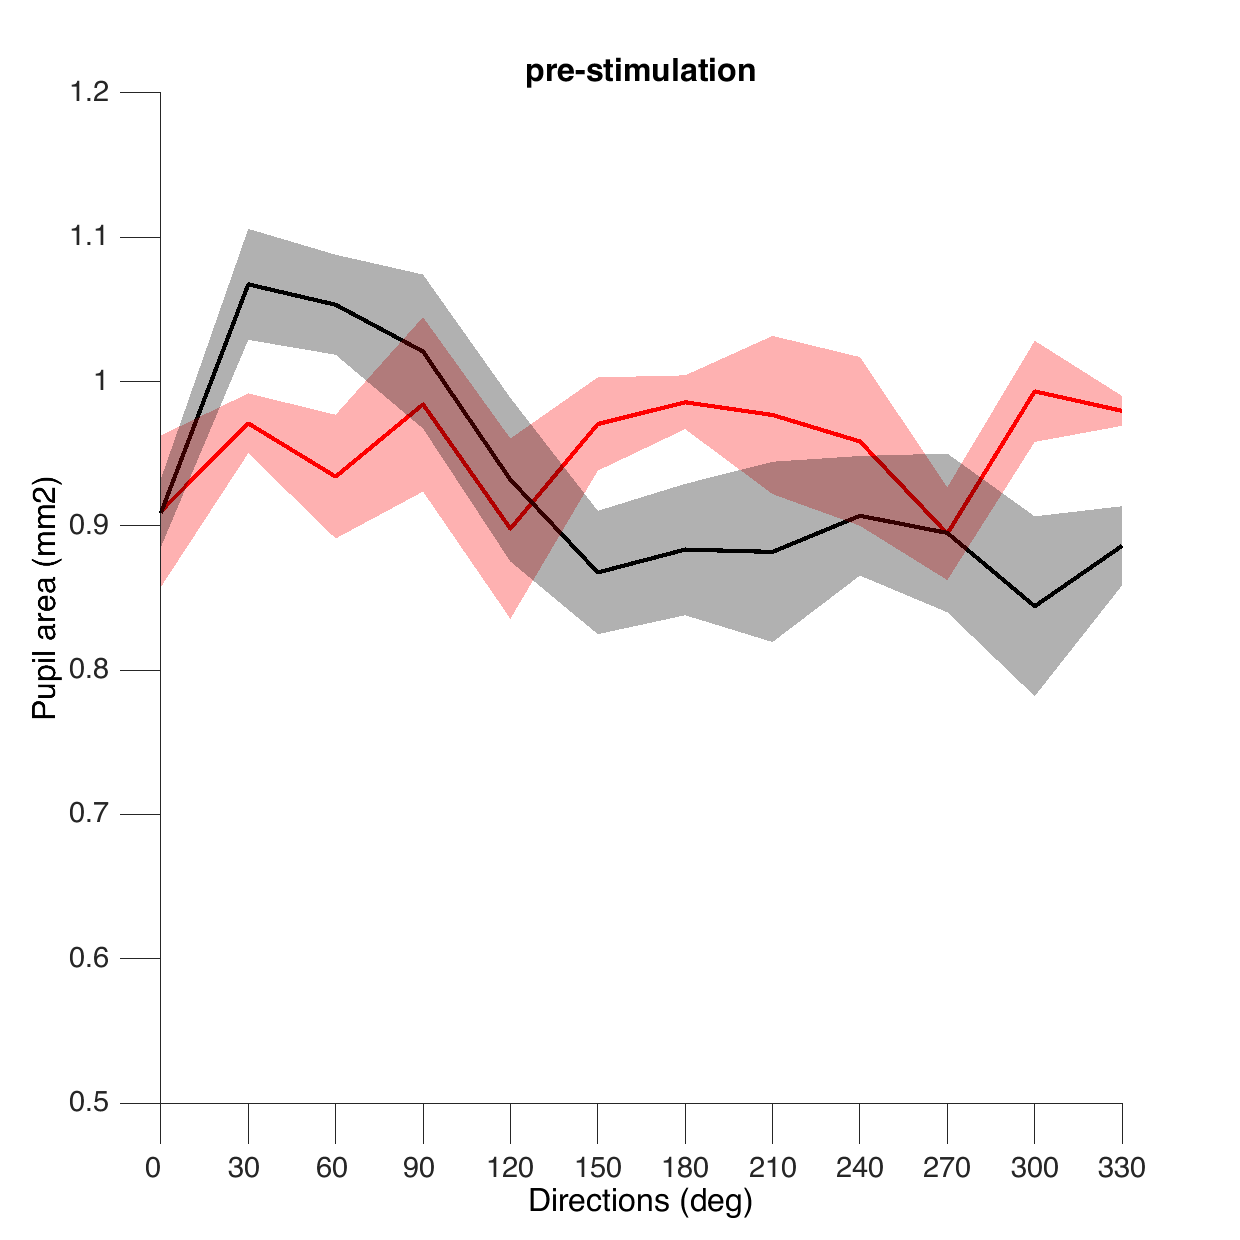
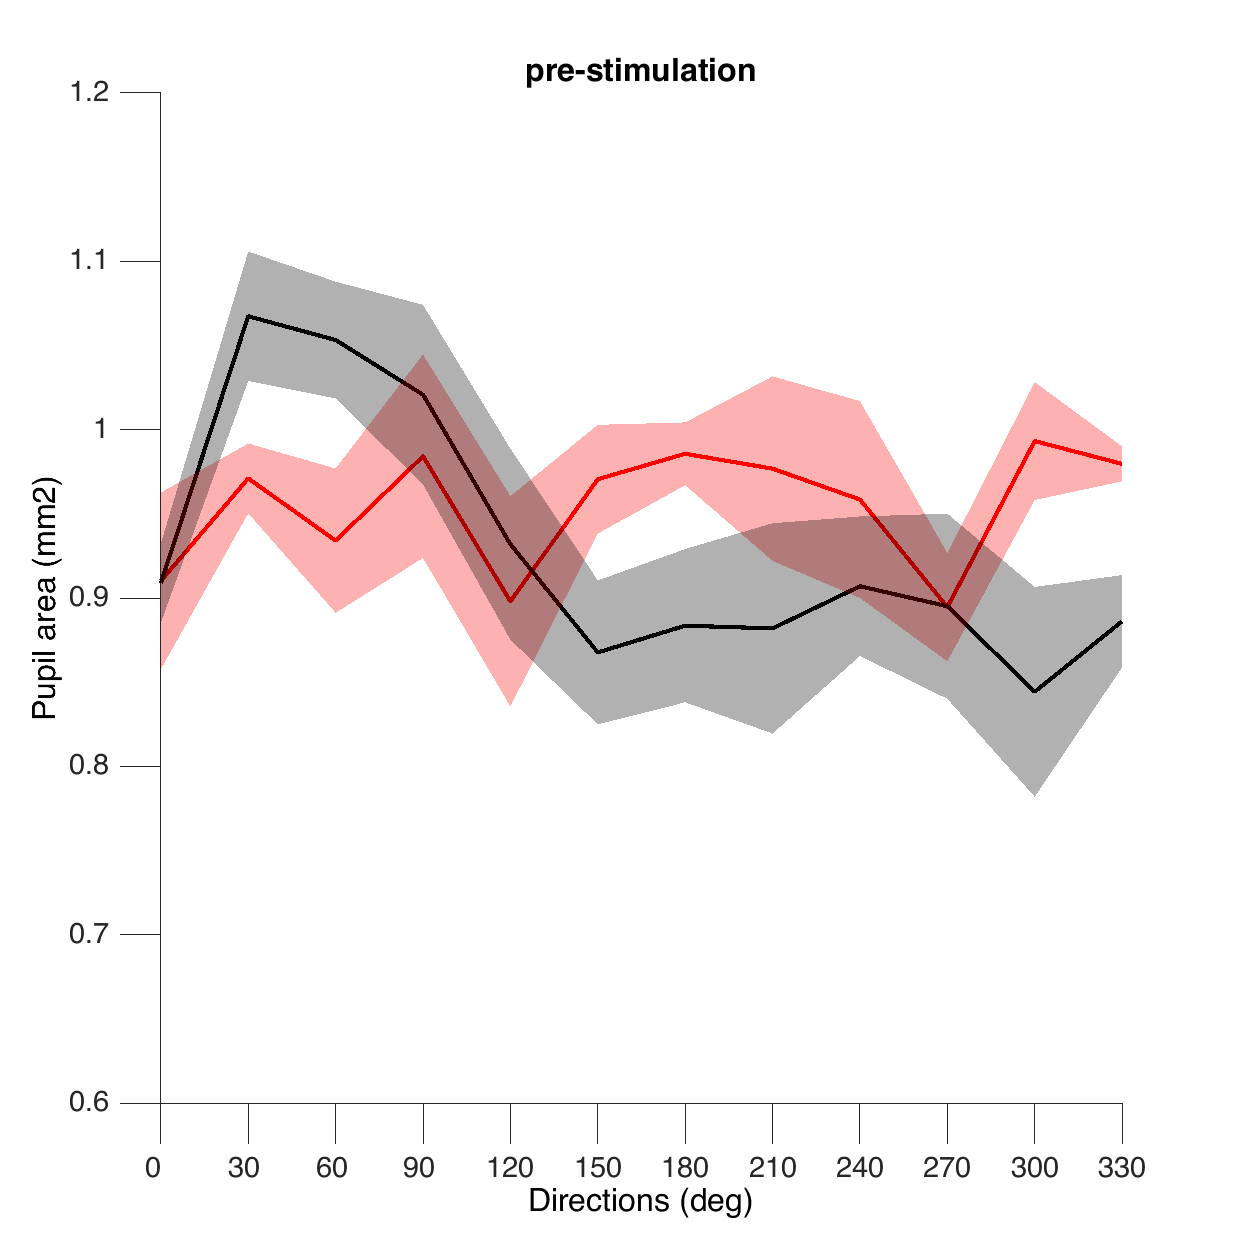
random vs non random pre stim and stim 3 mice

diff --git a/rebuttal/FigureS1C_random_nonrandom/plot_tuning_randon_nonrandom_blank.m b/rebuttal/FigureS1C_random_nonrandom/plot_tuning_randon_nonrandom_blank.m
@@ -147,9 +147,9 @@ axis tight
 
 ylabel('Pupil area (mm2)', 'FontSize',16,'Color','k');
 xlabel('Directions (deg)','FontSize',16,'Color','k');
-set(gca,'xtick',[1:1:12],'xticklabel',[0:30:330],'ylim',[0.2, 1.2]);
+set(gca,'xtick',[1:1:12],'xticklabel',[0:30:330],'ylim',[0.6, 1.2]);
 set(gca,'tickdir','out','fontsize',14,'ticklength',get(gca,'ticklength')*4);
-ylim([0.5, 1.2])
+
 box off
 title('pre-stimulation')
 set(gcf,'paperunits','centimeters','papersize' ,[21,29.7],'color','w','paperposition',[0,0,21,29.7],'inverthardcopy','off');

diff --git a/rebuttal/FigureS1C_random_nonrandom/plot_tuning_randon_nonrandom_stim.m b/rebuttal/FigureS1C_random_nonrandom/plot_tuning_randon_nonrandom_stim.m
@@ -143,9 +143,9 @@ axis tight
 
 ylabel('Pupil area (mm2)', 'FontSize',16,'Color','k');
 xlabel('Directions (deg)','FontSize',16,'Color','k');
-set(gca,'xtick',[1:1:12],'xticklabel',[0:30:330],'ylim',[0.2, 1.2]);
+set(gca,'xtick',[1:1:12],'xticklabel',[0:30:330],'ylim',[0.6, 1.2]);
 set(gca,'tickdir','out','fontsize',14,'ticklength',get(gca,'ticklength')*4);
-ylim([0.6, 1.2])
+
 box off
 title('stimulation')
 set(gcf,'paperunits','centimeters','papersize' ,[21,29.7],'color','w','paperposition',[0,0,21,29.7],'inverthardcopy','off');
